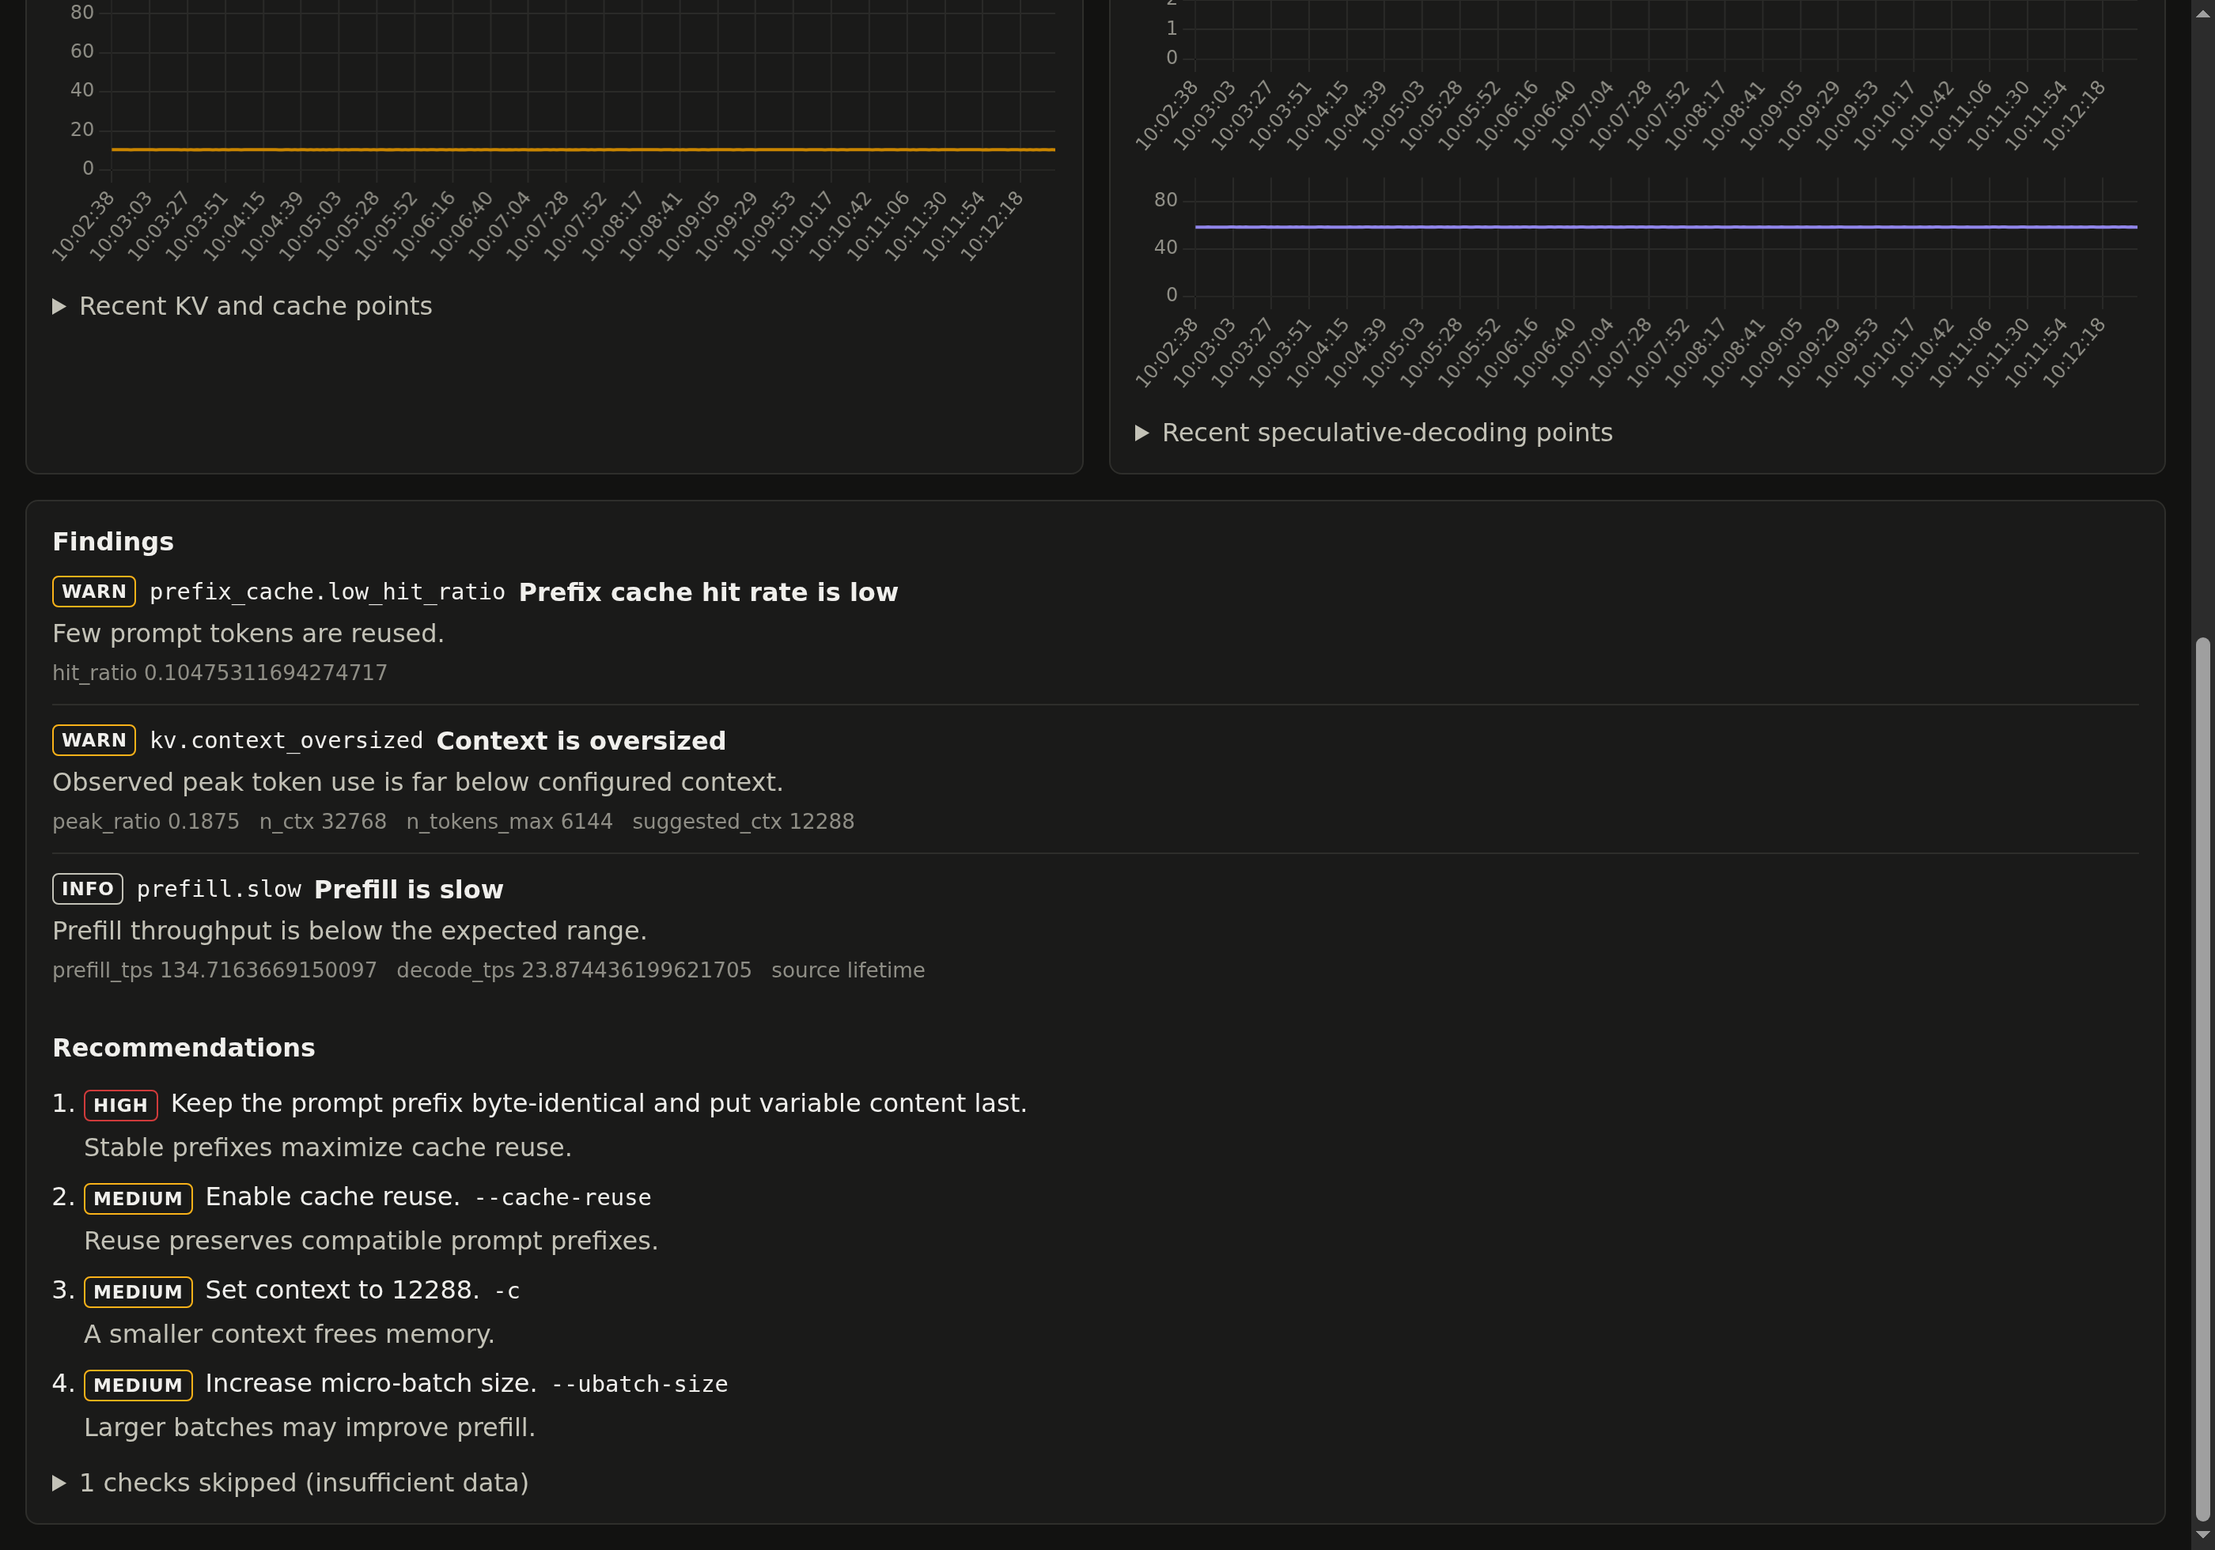
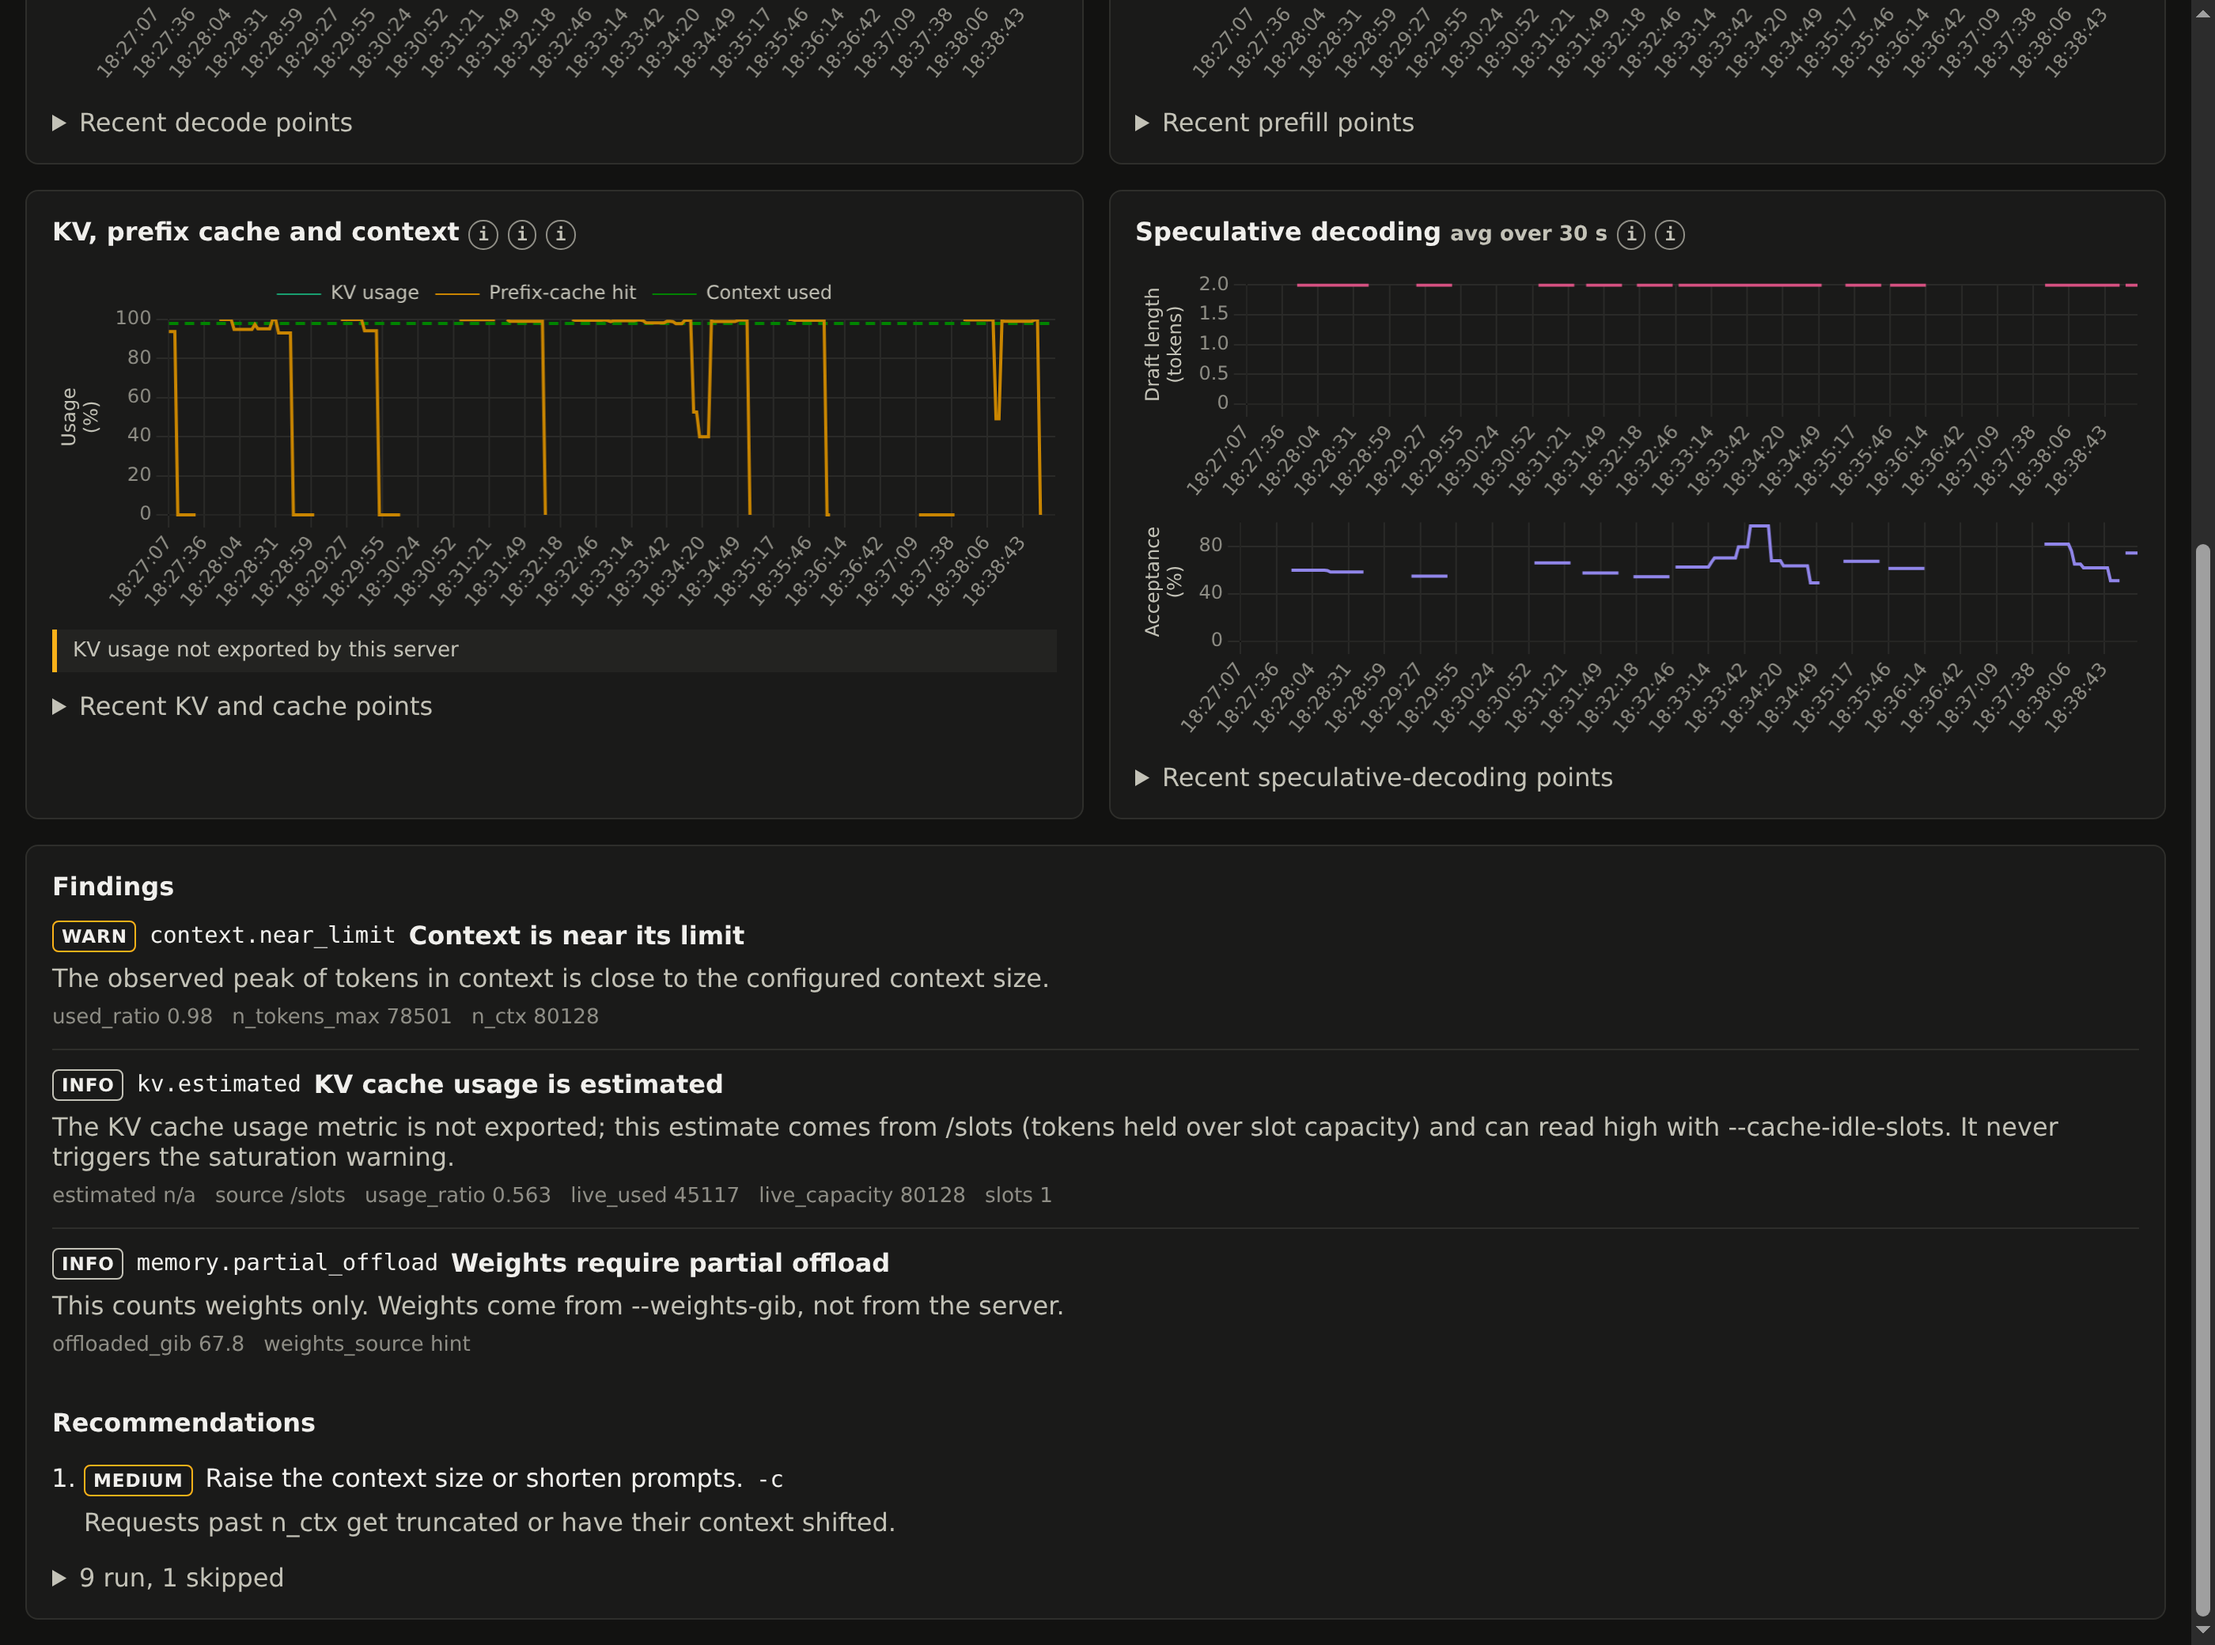
State the KV estimate source accurately and refresh README screenshots

diff --git a/src/llama_doctor/dashboard/static/app.js b/src/llama_doctor/dashboard/static/app.js
@@ -382,11 +382,25 @@
     slots_unavailable: "note-slots",
   };
 
+  const SLOTS_NOTE_FALLBACK = "Live slot data unavailable; context use is estimated from metrics";
+  const SLOTS_NOTE_ESTIMATED = "KV usage is estimated from /slots";
+
+  // With live slots the estimate comes from /slots; without them the old wording applies.
+  function updateSlotsNote(state, notes) {
+    const note = byId("note-slots");
+    const kv = state.kv && typeof state.kv === "object" ? state.kv : null;
+    const fromSlots = notes.slots_unavailable !== true && notes.kv_unexported === true
+      && kv !== null && kv.estimated === true;
+    note.textContent = fromSlots ? SLOTS_NOTE_ESTIMATED : SLOTS_NOTE_FALLBACK;
+    note.classList.toggle("hidden", !(fromSlots || notes.slots_unavailable === true));
+  }
+
   function updateNotes(state) {
     const notes = state.notes && typeof state.notes === "object" ? state.notes : {};
     Object.entries(NOTE_IDS).forEach(([flag, id]) => {
       byId(id).classList.toggle("hidden", notes[flag] !== true);
     });
+    updateSlotsNote(state, notes);
   }
 
   function updateRateWindow(state) {

diff --git a/tests/test_static.py b/tests/test_static.py
@@ -147,6 +147,13 @@ class TestStaticFiles(unittest.TestCase):
         self.assertLess(self.index.index('id="note-cache-hit"'), self.index.index('id="note-slots"'))
         self.assertLess(self.index.index('id="note-slots"'), self.index.index('data-table="kv-cache"'))
 
+    def test_slots_note_text_depends_on_slot_availability(self):
+        self.assertIn("Live slot data unavailable; context use is estimated from metrics", self.app_js)
+        self.assertIn("KV usage is estimated from /slots", self.app_js)
+        self.assertIn("notes.slots_unavailable !== true", self.app_js)
+        self.assertIn("kv.estimated === true", self.app_js)
+        self.assertIn("updateSlotsNote(state, notes)", self.app_js)
+
     def test_css_severity_classes(self):
         for severity in ("critical", "warn", "info", "ok", "insufficient_data"):
             self.assertIn(f".sev-{severity}", self.app_css)
